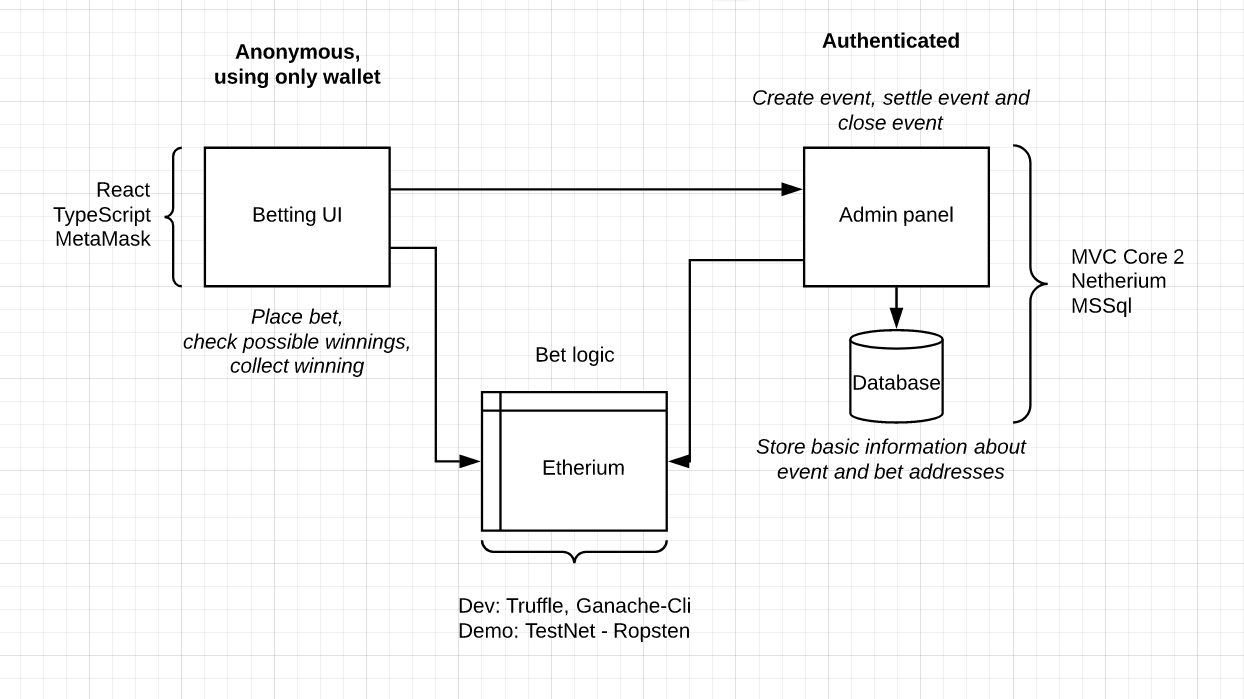
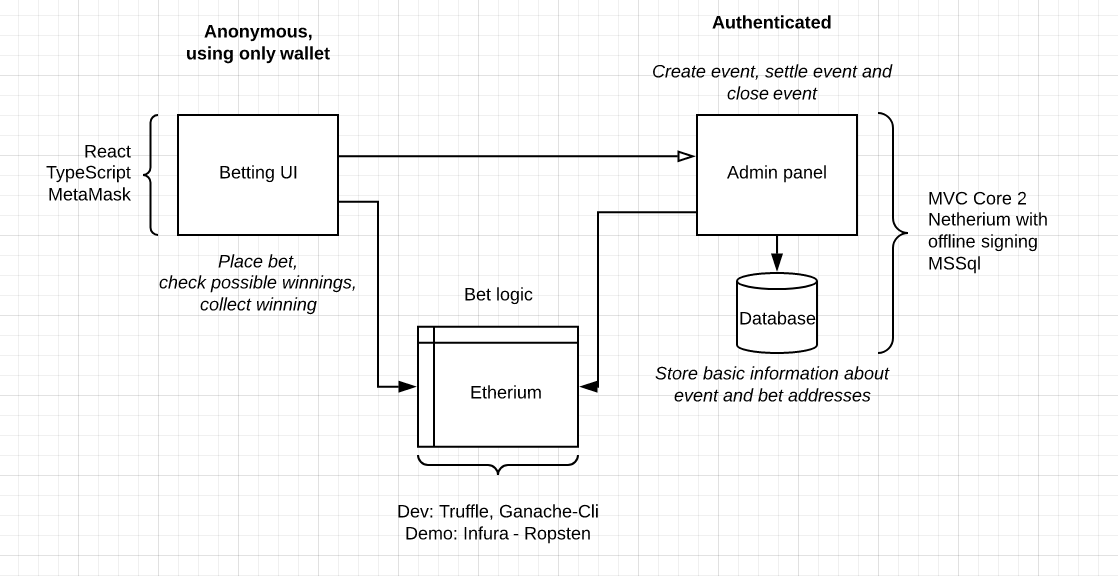
Memory storage changed to session storage

diff --git a/Admin/Startup.cs b/Admin/Startup.cs
@@ -1,14 +1,16 @@
 namespace Admin
 {
+    using System;
     using Data;
     using global::AutoMapper;
     using Microsoft.AspNetCore.Builder;
     using Microsoft.AspNetCore.Hosting;
+    using Microsoft.AspNetCore.Http;
     using Microsoft.AspNetCore.Identity;
     using Microsoft.EntityFrameworkCore;
-    using Microsoft.Extensions.Caching.Memory;
     using Microsoft.Extensions.Configuration;
     using Microsoft.Extensions.DependencyInjection;
+    using Microsoft.Extensions.DependencyInjection.Extensions;
     using Models.DbModels;
     using Services;
 
@@ -20,7 +22,7 @@
         }
 
         public IConfiguration Configuration { get; }
-        
+
         public void ConfigureServices(IServiceCollection services)
         {
             services.AddAutoMapper();
@@ -31,13 +33,26 @@
             services.AddIdentity<User, IdentityRole>()
                 .AddEntityFrameworkStores<InvoiceDbContext>()
                 .AddDefaultTokenProviders();
-            
-            services.AddMvc();
 
+            services.AddMvc();
+            services.AddDistributedMemoryCache();
+
+            services.AddSession(options =>
+            {
+                options.IdleTimeout = TimeSpan.FromHours(1);
+                options.Cookie.HttpOnly = false;
+            });
+
+            services.TryAddSingleton<IHttpContextAccessor, HttpContextAccessor>();
             //services.AddTransient(e => new EventService("http://localhost:8545/", "SingleBet"));
-            services.AddTransient(e => new EventService(e.GetService<IMemoryCache>(), "https://ropsten.infura.io/PGhw7kPw6Wf619UFjZ1M", "SingleBet"));
+            services.AddTransient(e =>
+            {
+                var context = e.GetService<IHttpContextAccessor>();
+                var privateKey = context.HttpContext.Session.GetString("PK");
+                return new EventService(privateKey, "https://ropsten.infura.io/PGhw7kPw6Wf619UFjZ1M", "SingleBet");
+            });
         }
-        
+
         public void Configure(IApplicationBuilder app, IHostingEnvironment env)
         {
             if (env.IsDevelopment())
@@ -59,6 +74,7 @@
                 .AllowAnyMethod()
                 .AllowAnyHeader());
 
+            app.UseSession();
             app.UseMvcWithDefaultRoute();
         }
     }

diff --git a/Admin/Controllers/AccountController.cs b/Admin/Controllers/AccountController.cs
@@ -5,6 +5,7 @@
     using Filters;
     using Microsoft.AspNetCore.Authentication;
     using Microsoft.AspNetCore.Authorization;
+    using Microsoft.AspNetCore.Http;
     using Microsoft.AspNetCore.Identity;
     using Microsoft.AspNetCore.Mvc;
     using Microsoft.Extensions.Caching.Memory;
@@ -20,22 +21,20 @@
         private readonly UserManager<User> _userManager;
         private readonly SignInManager<User> _signInManager;
         private readonly ILogger _logger;
-        private readonly IMemoryCache _cache;
 
         public AccountController(IServiceProvider serviceProvider) : base(serviceProvider)
         {
             _userManager = this.ServiceProvider.GetService<UserManager<User>>();
             _signInManager = this.ServiceProvider.GetService<SignInManager<User>>();
             _logger = this.ServiceProvider.GetService<ILogger<AccountController>>();
-            _cache = this.ServiceProvider.GetService<IMemoryCache>();
         }
 
         [HttpGet]
         [AllowAnonymous]
         public async Task<IActionResult> Login(string returnUrl = null)
         {
-            // Clear the existing external cookie to ensure a clean login process
             await this.HttpContext.SignOutAsync(IdentityConstants.ExternalScheme);
+            this.HttpContext.Session.Clear();
 
             this.ViewData["ReturnUrl"] = returnUrl;
             return this.View();
@@ -51,7 +50,7 @@
             var result = await _signInManager.PasswordSignInAsync(model.Email, model.Password, isPersistent: false, lockoutOnFailure: false);
             if (result.Succeeded)
             {
-                _cache.Set("PK", model.Key);
+                this.HttpContext.Session.SetString("PK", model.Key);
                 _logger.LogInformation("User logged in.");
                 return this.RedirectToLocal(returnUrl);
             }

diff --git a/Admin/Services/EventService.cs b/Admin/Services/EventService.cs
@@ -6,6 +6,7 @@
     using System.Threading;
     using System.Threading.Tasks;
     using Data;
+    using Microsoft.AspNetCore.Http;
     using Microsoft.Extensions.Caching.Memory;
     using Models.ContractModels;
     using Nethereum.Contracts;
@@ -24,9 +25,9 @@
         private readonly string _contractName;
         private readonly Account _account;
 
-        public EventService(IMemoryCache cache, string node, string contractName)
+        public EventService(string privateKey, string node, string contractName)
         {
-            this._account = new Account(cache.Get<string>("PK"));
+            this._account = new Account(privateKey);
             this._web3 = new Web3(_account, node);
             this._contractName = contractName;
         }
